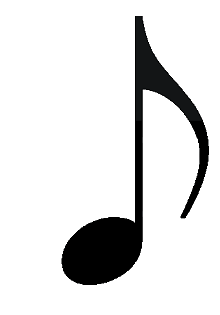
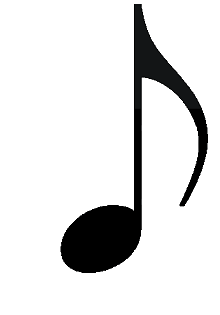
tenuto snad funkční, zbytek si nejsem tak jistý

Changed region(s): [[0.2727, 0.0, 0.9545, 0.9143]]

diff --git a/newproject.html b/newproject.html
@@ -50,12 +50,12 @@
         <div class="" h="" x="" y="" value=""></div>
         <div class="" h="" x="" y="" value=""></div>
         <div class="" h="" x="" y="" value=""></div>
-        <div class="tool" h="35" x="50" y="-18" posuvka="-10" value="0"><img src="images/celaNota.png"></div>
-        <div class="tool" h="35" x="50" y="-18" posuvka="-10" value="1"><img src="images/pulovaNota.png"></div>
-        <div class="tool" h="35" x="50" y="-18" posuvka="-10" value="2"><img src="images/ctvrtovaNota.png"></div>
-        <div class="tool" h="35" x="50" y="-18" posuvka="-10" value="3"><img src="images/osminkaNota.png"></div>
-        <div class="tool" h="35" x="49" y="-18" posuvka="-10" value="4"><img src="images/sestnatinkaNota.png"></div>
-        <div class="tool" h="35" x="49" y="-18" posuvka="-10" value="5"><img src="images/tricetidvatinkaNota.png"></div>
+        <div class="tool" h="38" x="50" y="-19" posuvka="-10" value="0"><img src="images/celaNota.png"></div>
+        <div class="tool" h="38" x="50" y="-19" posuvka="-10" value="1"><img src="images/pulovaNota.png"></div>
+        <div class="tool" h="38" x="50" y="-19" posuvka="-10" value="2"><img src="images/ctvrtovaNota.png"></div>
+        <div class="tool" h="38" x="50" y="-18" posuvka="-10" value="3"><img src="images/osminkaNota.png"></div>
+        <div class="tool" h="38" x="49" y="-18" posuvka="-10" value="4"><img src="images/sestnatinkaNota.png"></div>
+        <div class="tool" h="38" x="49" y="-18" posuvka="-10" value="5"><img src="images/tricetidvatinkaNota.png"></div>
         <div class="tool" h="35" x="58" y="-8" posuvka="0" value="7"><img src="images/celaPomlka.png"></div>
         <div class="tool" h="35" x="58" y="-8" posuvka="0" value="8"><img src="images/pulovaPomlka.png"></div>
         <div class="tool" h="35" x="50" y="-8" posuvka="0" value="9"><img src="images/ctvrtovaPomlka.png"></div>
@@ -94,11 +94,11 @@
             <div class="space" o="t"><div class="c"></div></div>
             <div class="line" o="t"><div class="c"></div><div class="blackline"></div></div>
             <div class="space" o="t"><div class="c"></div></div>
-            <div class="line" o="t"><div class="c"></div><div class="blackline"></div></div>
+            <div class="line" o="t" middle="t"><div class="c"></div><div class="blackline"></div></div>
             <div class="space" o="t"><div class="c"></div></div>
-            <div class="line" o="t"><div class="c"></div><div class="blackline"></div></div>
+            <div class="line" o="t" middle="t"><div class="c"></div><div class="blackline"></div></div>
             <div class="space"><div class="c"></div></div>
-            <div class="line"><div class="c"></div><div class="blackline"></div></div>
+            <div class="line" middle="t"><div class="c"></div><div class="blackline"></div></div>
             <div class="space"><div class="c"></div></div>
             <div class="line"><div class="c"></div><div class="blackline"></div></div>
             <div class="space"><div class="c"></div></div>
@@ -271,6 +271,28 @@
                         if(movingNote.getElementsByClassName("helpLine")[0]){
                             movingNote.getElementsByClassName("helpLine")[0].remove();
                         }
+                        console.log(movingNote.getElementsByClassName("znamenko")[0]);
+                        if(movingNote.getElementsByClassName("znamenko")[0]){
+                            znakImg = movingNote.getElementsByClassName("znamenko")[0];
+                            if(this.getAttribute("middle")){
+                                if(this.getAttribute("o")){
+                                    console.log("1")
+                                    znakImg.style.top=+movingNote.getAttribute("top")+ -5+"px";
+                                }else{
+                                    console.log("2")
+                                    znakImg.style.top=+movingNote.getAttribute("top")+ +22+"px";
+                                }
+                            }
+                            else{
+                                if(this.getAttribute("o")){
+                                    console.log("3")
+                                    znakImg.style.top=+movingNote.getAttribute("top")+ -3+"px";
+                                }else{
+                                    console.log("4")
+                                    znakImg.style.top=+movingNote.getAttribute("top")+ +18+"px";
+                                }
+                            }
+                        }
                         if(this.getAttribute("x")){
                             let container = document.createElement("div");
                             
@@ -396,11 +418,40 @@
             }
             znakImg = document.createElement("img");
             znakImg.classList.add("znamenko");
+            znakImg.setAttribute("top",this.getAttribute("top"))
             znakImg.src=this.src;
+            k=this.parentElement.parentElement.getAttribute("value")
             if(this.parentElement.parentElement.parentElement.parentElement.getAttribute("o")){
-                znakImg.style.top=+this.getAttribute("top")+ -30+"px";
-            }else{
-                znakImg.style.top=this.getAttribute("top")+"px";
+                if(k==0){
+                    znakImg.style.left="1px";
+                }else if(k==1||k==2){
+                    znakImg.style.left="-1px";
+                }else if(k>=3&&k<=6){
+                    znakImg.style.left="2px";
+                }
+            }
+            else{
+                if(k==0){
+                    znakImg.style.left="0px";
+                }else if(k==1||k==2){
+                    znakImg.style.left="-2px";
+                }else if(k>=3&&k<=6){
+                    znakImg.style.left="3px";
+                }
+            }
+            if(this.parentElement.parentElement.parentElement.parentElement.getAttribute("middle")){
+                if(this.parentElement.parentElement.parentElement.parentElement.getAttribute("o")){
+                    znakImg.style.top=+this.getAttribute("top")+ -20+"px";
+                }else{
+                    znakImg.style.top=+this.getAttribute("top")+ +8+"px";
+                }
+            }
+            else{
+                if(this.parentElement.parentElement.parentElement.parentElement.getAttribute("o")){
+                    znakImg.style.top=+this.getAttribute("top")+ -16+"px";
+                }else{
+                    znakImg.style.top=+this.getAttribute("top")+ +3+"px";
+                }
             }
             znakImg.style.position="absolute";
             this.parentElement.parentElement.getElementsByClassName("cImg")[0].appendChild(znakImg);
@@ -426,7 +477,7 @@
                         divOptions.classList.add("options");
                         let a=["images/krizek.png","images/becko.png","images/odrazka.png","images/akcent1.png","images/tenuto.png","images/krizekk.png"];
                         let b=[posuvka,posuvka,posuvka,znamenko,znamenko,notedelete];
-                        let top=[24,20,24,30,15,0];
+                        let top=[26,22,26,20,15,0];
                         for(let i=0;i<a.length;i++){
                             imgV=document.createElement("img");
                             imgV.src=a[i];

diff --git a/stylesheets/newproject.css b/stylesheets/newproject.css
@@ -216,7 +216,7 @@ body{
 .znamenko{
     height:30px;
     position:absolute;
-    left:-2px;
+    left:-1px;
 }
 .stupniceL{
     margin-top:50px;
